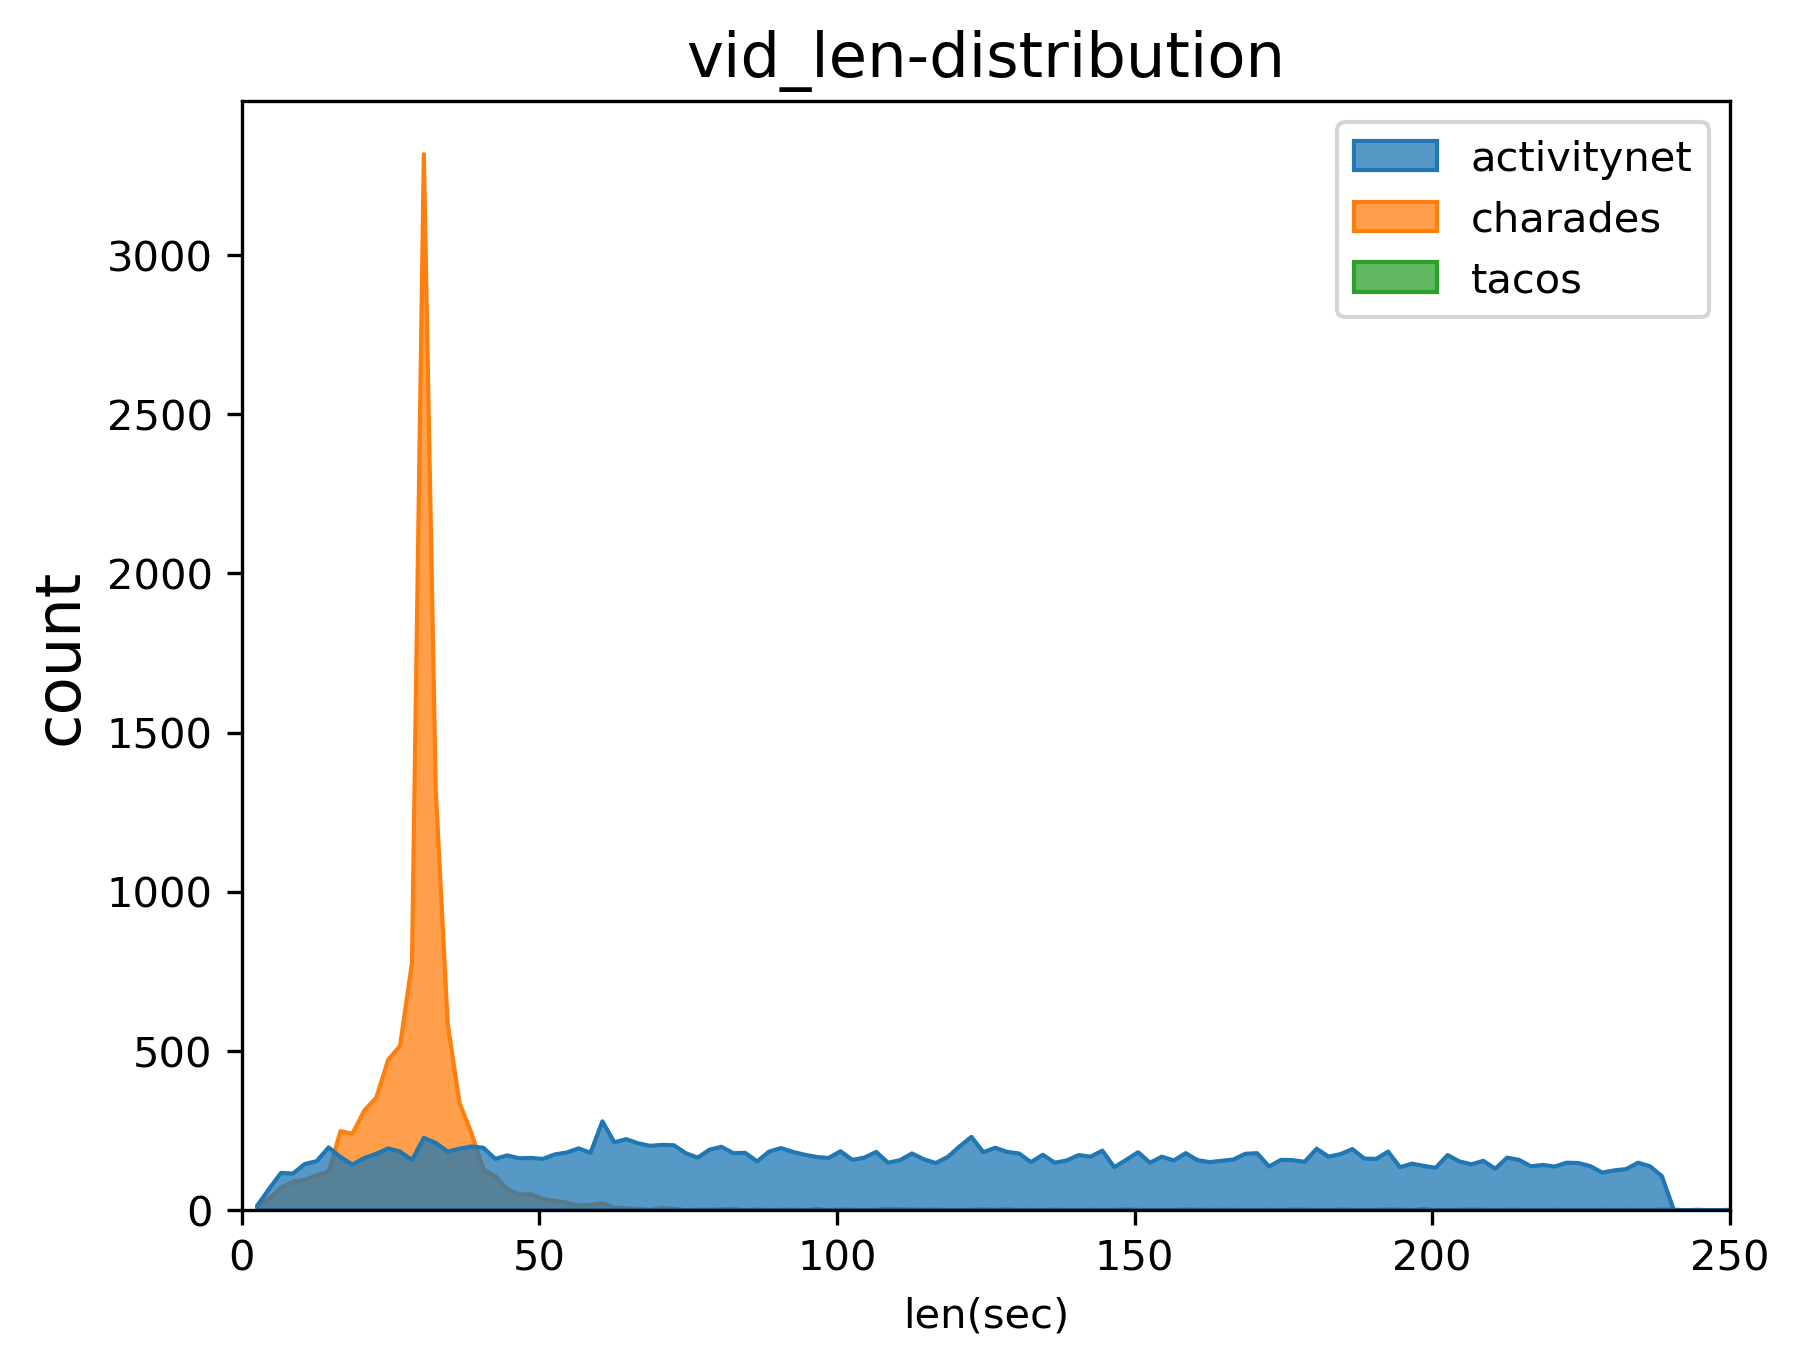
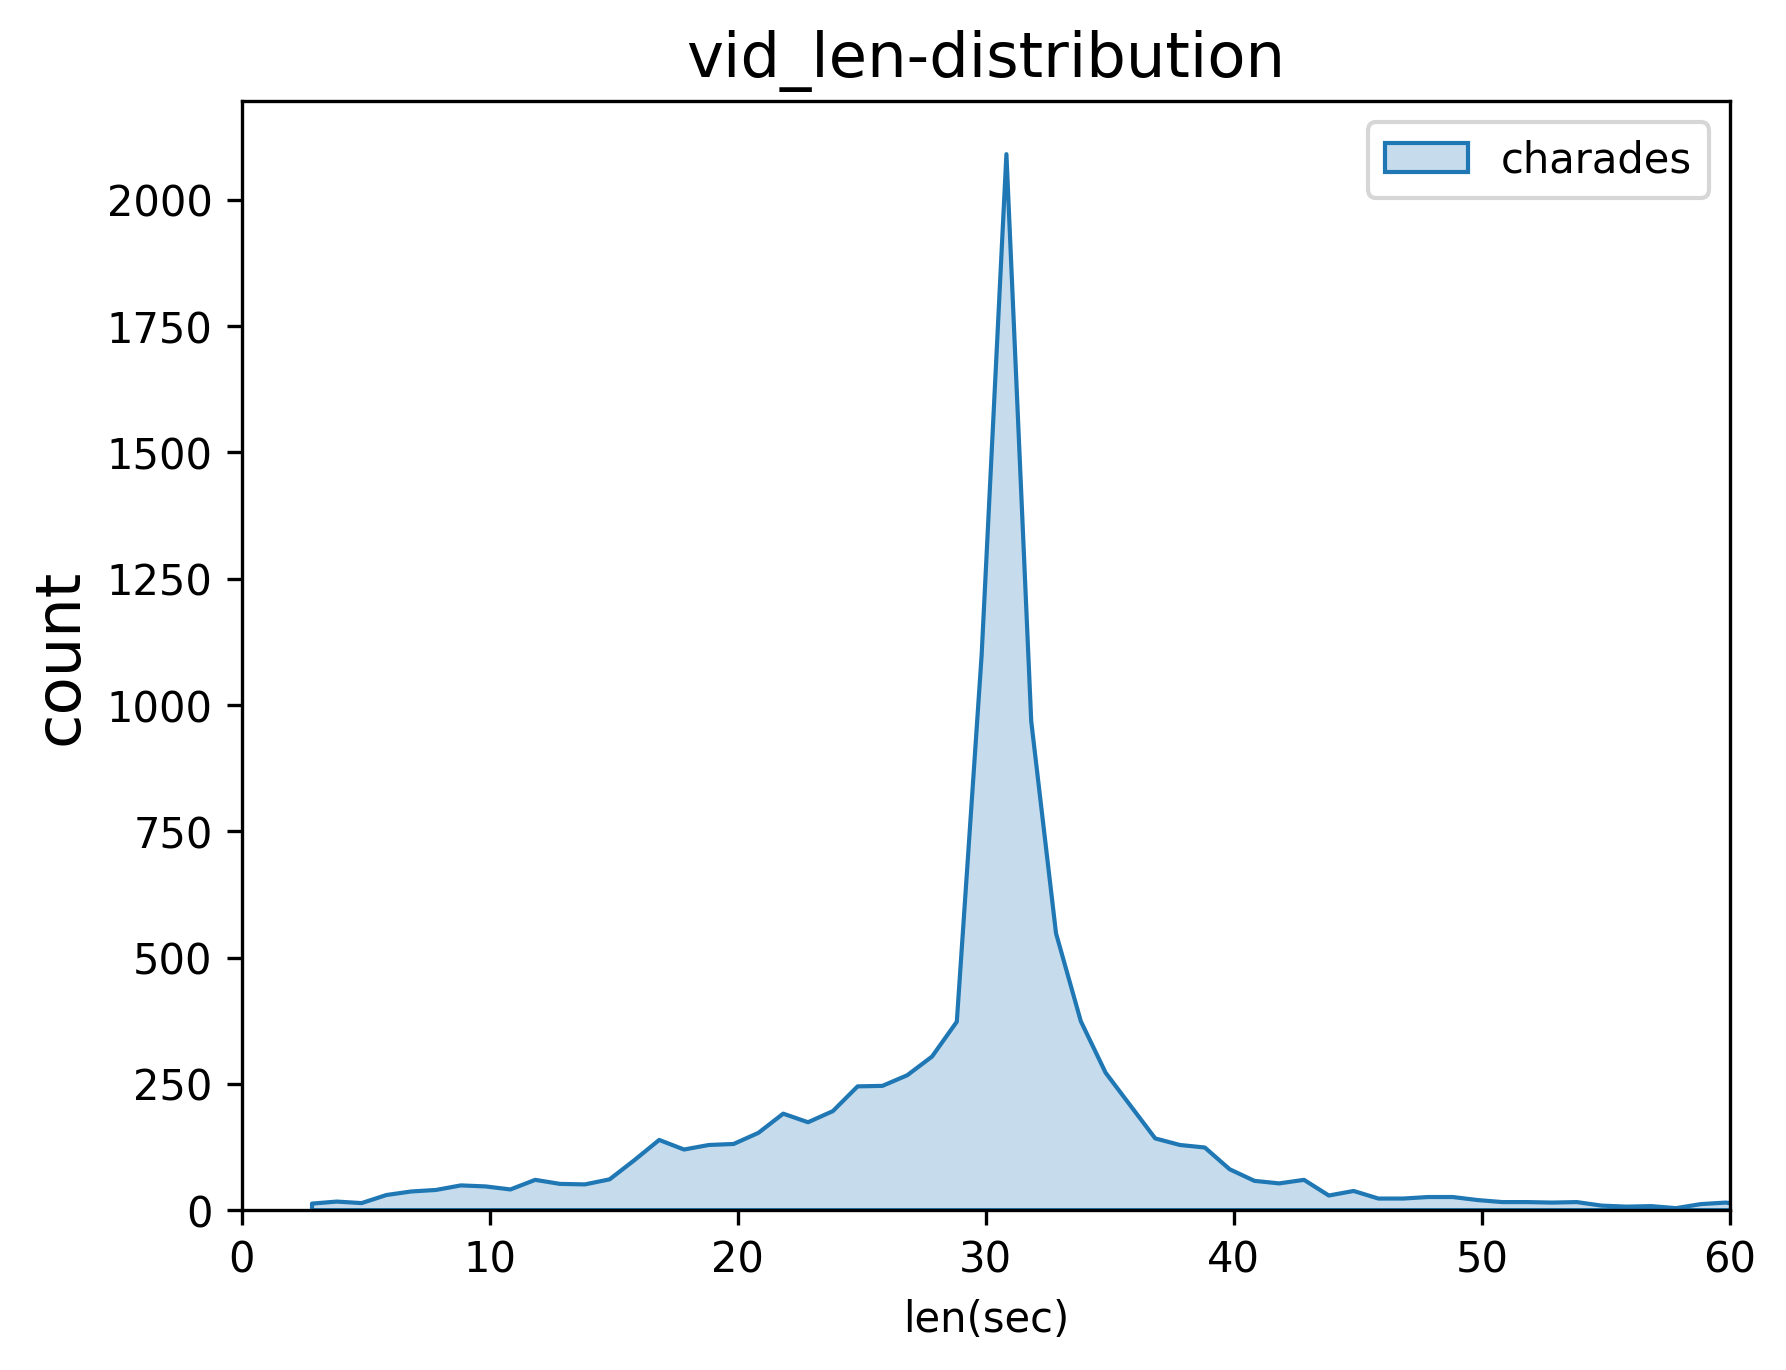
action_len_and_ratio_in_vid_len

Changed region(s): [[0.0308, 0.0615, 0.9854, 0.9531], [0.3695, 0.0, 0.7391, 0.0922], [0.4927, 0.9531, 0.6159, 0.9839]]

diff --git a/data/dataset/action_len_histogram.py b/data/dataset/action_len_histogram.py
@@ -6,13 +6,15 @@ import os, glob
 import re
 
 
-datasets = ['activitynet', 'charades', 'tacos']
+# datasets = ['activitynet', 'charades', 'tacos']
+datasets = ['charades']
 
 durations = {
-    'activitynet': [],
+    # 'activitynet': [],
     'charades': [],
-    'tacos': []
+    # 'tacos': []
 }
+
 
 
 for dataset in datasets:
@@ -55,12 +57,10 @@ for dataset in datasets:
             for line in data:
                 if len(line) < 2:
                     continue
+                vid = line.split()[0]
 
                 if 'train' in filename:
-                    vid_set.add(line.split()[0])
-
-
-                if 'train' in filename:
+                    vid_set.add(vid)
                     num_timestamps += 1
 
                 t = line.split('##')[0].split()[1:]
@@ -70,9 +70,8 @@ for dataset in datasets:
                     max_len = l
                     max_vid = vid
 
-
-
                 durations[dataset].append(float(t[1])-float(t[0]))
+
         elif dataset == 'tacos':
             with open(filename, encoding='utf8') as f:
                 data = json.load(f)
@@ -106,17 +105,22 @@ for dataset in datasets:
     print('max_len: {:.2f}'.format(max_len))
     print('max_vid:', max_vid)
 
+# durations['charades'].extend(list(map(lambda x: x+0.1, range(0, 81))))
+
 # colors = ["windows blue", "amber", "greyish", "faded green", "dusty purple"]
 # sns.palplot(sns.xkcd_palette(colors))
 # sns.set(rc={'figure.figsize':(15,10)})
-LIMIT = 200
+LIMIT = 81
 plt.xlim(0, LIMIT)
 # sns.histplot(data=durations, binwidth=5, kde=True)#, palette=['red', 'blue'])
-sns.histplot(data=durations, binwidth=2, element='poly')#, palette=['red', 'blue'])
+sns.histplot(data=durations, binwidth=1, element='poly')#, palette=['red', 'blue'])
 
 plt.title('action_len: lim_{}'.format(LIMIT), fontsize=15)
 plt.xlabel('len(sec)', fontsize=10)
 plt.ylabel('count', fontsize=15)
+# plt.yscale('log')
+plt.yscale('log')
 
 fig = plt.gcf()
-fig.savefig('action_len-lim_{}.png'.format(LIMIT), dpi=300, format='png', bbox_inches="tight", facecolor="white")
+fig.savefig('action_len-lim_{}_log.png'.format(LIMIT), dpi=300, format='png', bbox_inches="tight", facecolor="white")
+plt.show()

diff --git a/data/dataset/action_video_len_ratio.py b/data/dataset/action_video_len_ratio.py
@@ -11,16 +11,18 @@ from utils import *
 
 args = get_args()
     
-datasets = ['activitynet', 'charades', 'tacos']
+# datasets = ['activitynet', 'charades', 'tacos']
+datasets = ['charades']
 
 durations = {
-    'activitynet': {'S': [], 'E': []},
+    # 'activitynet': {'S': [], 'E': []},
     'charades': {'S': [], 'E': []},
-    'tacos': {'S': [], 'E': []},
+    # 'tacos': {'S': [], 'E': []},
 }
 
 
-with open('charades/charades_aug.json', encoding='utf8') as f:
+# with open('charades/charades_aug.json', encoding='utf8') as f:
+with open('charades/charades.json', encoding='utf8') as f:
     charades_duration = json.load(f)
 
 
@@ -64,11 +66,16 @@ for dataset in datasets:
                 if args.ONLY_AUG and 'aug' not in vid:
                     continue
                 duration = float(charades_duration[vid]['duration'])
+                # if duration > 10:
+                if duration <= 10 or duration >= 30:
+                # if duration < 30:
+                    continue
                 S = float(t[0]) / duration
                 E = float(t[1]) / duration
                 durations[dataset]['S'].append(S)
                 durations[dataset]['E'].append(E)
                 checkSE(vid, S, E)
+                print('{} : {:5.3f}~{:5.3f} / {:5.3f}'.format(vid, duration, S*duration, E*duration))
 
         elif dataset == 'tacos':
             with open(filename, encoding='utf8') as f:
@@ -102,11 +109,12 @@ for dataset in datasets:
 
     sns.scatterplot(x='S', y='E', data=durations[dataset], s=1)
 
-    title = get_title(args, dataset, 'act_vid_len_ratio')
+    title = get_title(args, dataset, 'act_vid_len_ratio_10_to_30_secs')
 
     plt.title(title, fontsize=15)
     plt.xlabel('S', fontsize=15)
     plt.ylabel('E', fontsize=15)
+    plt.xlim(-0.1, 1.1)
 
     fig = plt.gcf()
     save_filename = 'png_ratio/' + title + '.png'

diff --git a/data/dataset/video_len_histogram.py b/data/dataset/video_len_histogram.py
@@ -11,12 +11,13 @@ from utils import *
 
 args = get_args()
 
-datasets = ['activitynet', 'charades', 'tacos']
+# datasets = ['activitynet', 'charades', 'tacos']
+datasets = ['charades']
 
 durations = {
-    'activitynet': [],
+    # 'activitynet': [],
     'charades': [],
-    'tacos': []
+    # 'tacos': []
 }
 
 
@@ -97,7 +98,7 @@ for dataset in datasets:
 # sns.set(rc={'figure.figsize':(15,10)})
 plt.xlim(0, args.LIMIT)
 # sns.histplot(data=durations, binwidth=5, kde=True)#, palette=['red', 'blue'])
-sns.histplot(data=durations, binwidth=2, element='poly')#, palette=['red', 'blue'])
+sns.histplot(data=durations, binwidth=1, element='poly')#, palette=['red', 'blue'])
 
 title = get_title(args, 'distribution', 'vid_len')
 

diff --git a/data/dataset/utils.py b/data/dataset/utils.py
@@ -8,7 +8,7 @@ def get_args():
     parser.add_argument('--ONLY_TRAIN', action='store_true')
     parser.add_argument('--TRAIN_AUG', action='store_true')
     parser.add_argument('--AUG', action='store_true')
-    parser.add_argument('--LIMIT', type=int, default=250)
+    parser.add_argument('--LIMIT', type=int, default=200)
     
     args = parser.parse_args()
     
